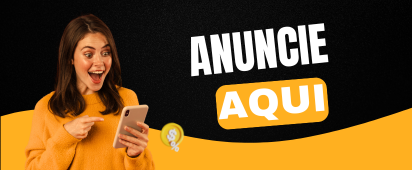
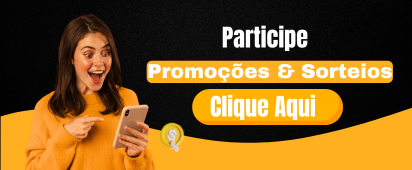
versão 2.0 finalizada?

Changed region(s): [[0.3495, 0.1176, 0.9612, 0.7647]]

diff --git a/app/sorteio/index.jsx b/app/sorteio/index.jsx
@@ -9,6 +9,7 @@ const { width, height } = Dimensions.get("window");
 export default function Sorteios() {
   const router = useRouter();
   const [sorteios, setSorteios] = useState([]);
+  const [loading, setLoading] = useState(true); // Estado para controlar o carregamento
 
   const fetchSorteios = async () => {
     try {
@@ -17,6 +18,8 @@ export default function Sorteios() {
       setSorteios(sorteiosAtivos);
     } catch (error) {
       console.error("Erro ao buscar os sorteios:", error.message);
+    } finally {
+      setLoading(false); // Finaliza o carregamento
     }
   };
 
@@ -28,25 +31,41 @@ export default function Sorteios() {
     router.push(`/inscreversorteio/${id}`); // Rota dinâmica
   };
 
+  if (loading) {
+    return (
+      <View style={styles.screen}>
+        <Text style={styles.loadingText}>Carregando sorteios...</Text>
+      </View>
+    );
+  }
+
   return (
     <View style={styles.screen}>
-      <Text style={styles.title}>Sorteios Disponíveis</Text>
-      <ScrollView contentContainerStyle={styles.scrollContainer}>
-        {sorteios.map((sorteio) => (
-          <TouchableOpacity
-            key={sorteio.id}
-            style={styles.card}
-            onPress={() => handleNavigateToSorteio(sorteio.id)}
-          >
-            <Image
-              source={{ uri: `https://nativa.felipebelmont.com/${sorteio.bannerPath}` }}
-              style={styles.image}
-            />
-            <Text style={styles.name}>{sorteio.nome}</Text>
-            <Text style={styles.description}>{sorteio.descricao}</Text>
-          </TouchableOpacity>
-        ))}
-      </ScrollView>
+      <Text style={styles.title}>Promoções Disponíveis</Text>
+      {sorteios.length === 0 ? (
+        <View style={styles.fallbackContainer}>
+          <Text style={styles.fallbackText}>
+            Por enquanto, não temos promoção ativa. Fique ligado, em breve teremos!
+          </Text>
+        </View>
+      ) : (
+        <ScrollView contentContainerStyle={styles.scrollContainer}>
+          {sorteios.map((sorteio) => (
+            <TouchableOpacity
+              key={sorteio.id}
+              style={styles.card}
+              onPress={() => handleNavigateToSorteio(sorteio.id)}
+            >
+              <Image
+                source={{ uri: `https://nativa.felipebelmont.com/${sorteio.bannerPath}` }}
+                style={styles.image}
+              />
+              <Text style={styles.name}>{sorteio.nome}</Text>
+              <Text style={styles.description}>{sorteio.descricao}</Text>
+            </TouchableOpacity>
+          ))}
+        </ScrollView>
+      )}
     </View>
   );
 }
@@ -67,6 +86,24 @@ const styles = StyleSheet.create({
     color: "#FFB020",
     textAlign: "center",
     marginBottom: 20,
+  },
+  fallbackContainer: {
+    flex: 1,
+    justifyContent: "center",
+    alignItems: "center",
+    padding: 20,
+  },
+  fallbackText: {
+    fontSize: 16,
+    color: "#fff",
+    textAlign: "center",
+    lineHeight: 24,
+  },
+  loadingText: {
+    fontSize: 16,
+    color: "#fff",
+    textAlign: "center",
+    marginTop: 20,
   },
   card: {
     backgroundColor: "#2C353E", // Fundo cinza escuro

diff --git a/components/Banners.jsx b/components/Banners.jsx
@@ -10,16 +10,15 @@ export default function Banner() {
   // Função para buscar as imagens da API
   const fetchImages = async () => {
     try {
-      const response = await axios.get("https://nativa.felipebelmont.com/api/sponsor/banner");
+      const response = await axios.get("https://nativa.felipebelmont.com/api/banner/banners"); // URL atualizada
 
-      // Filtrar apenas as imagens com status true
-      const activeImages = response.data.filter((image) => image.status === true);
+      // Acessa a chave 'banners' e filtra as imagens com status true
+      const activeImages = response.data.banners.filter((image) => image.status === true);
 
-      setImages(activeImages);
+      setImages(activeImages); // Define as imagens ativas no estado
     } catch (error) {
-      // Loga o erro no console para depuração, mas não afeta a exibição
-      console.error("Erro ao buscar imagens:", error);
-      setImages([]); // Define um array vazio se ocorrer erro
+      console.log("Nenhum banner encontrado ou erro na API."); // Loga apenas como informação
+      setImages([]); // Define um array vazio se ocorrer erro ou a API estiver sem banners
     }
   };
 
@@ -43,20 +42,19 @@ export default function Banner() {
   // Determinar qual imagem exibir
   const getCurrentImage = () => {
     if (currentImageIndex === 0 || images.length === 0) {
-      return localImage;
+      return localImage; // Exibe a imagem local se não houver banners ativos
     }
-  
+
     const imagePath = images[currentImageIndex - 1]?.path;
-  
+
     // Garante que a URL será gerada apenas se o caminho for válido
     if (!imagePath) {
       return localImage;
     }
-  
+
     const fullImageUrl = `https://nativa.felipebelmont.com/${imagePath}`;
     return { uri: fullImageUrl };
   };
-  
 
   return (
     <View style={styles.banner}>

diff --git a/app/inscreversorteio/[id].jsx b/app/inscreversorteio/[id].jsx
@@ -152,7 +152,7 @@ export default function InscricaoSorteio() {
           errorMessage={errorMessage}
         />
 
-        <Text style={styles.title}>Inscrição no Sorteio</Text>
+        <Text style={styles.title}>Inscreva-se na Promoção</Text>
         <TextInput
           style={styles.input}
           placeholder="Nome"

diff --git a/app/_layout.jsx b/app/_layout.jsx
@@ -32,7 +32,7 @@ function getHeaderTitle(route) {
   const titles = {
     home: "Página Inicial",
     sorteio: "Sorteios",
-    "sorteio/index": "Detalhes do Sorteio",
+    "sorteio/index": "Detalhes da Promoção",
   };
 
   // Trata a rota dinâmica "inscreversorteio/[id]"

diff --git a/components/Carousel.jsx b/components/Carousel.jsx
@@ -91,8 +91,9 @@ export default function Carousel() {
 const styles = StyleSheet.create({
   container: {
     width: "100%",
-    marginBottom: 20,
+    marginBottom: 40,
     paddingHorizontal: 10,
+    paddingTop: 10,
   },
   title: {
     fontSize: 16,
